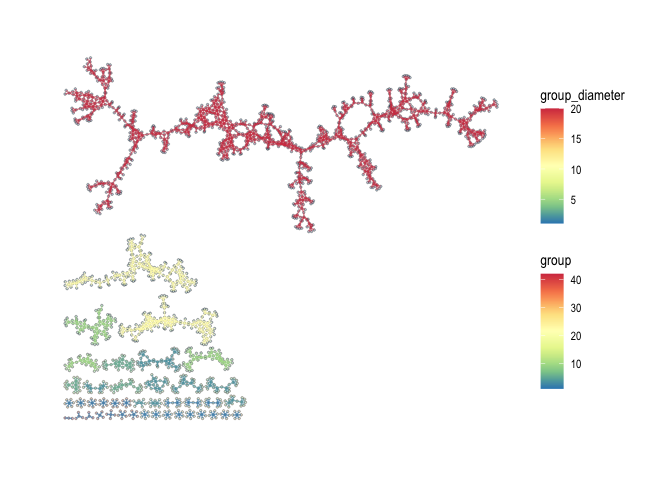
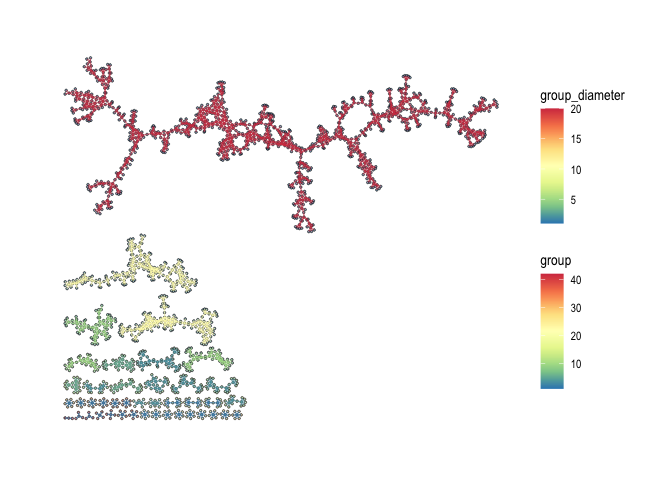
Knit README.Rmd to README.md for push.

Changed region(s): [[0.0938, 0.4688, 0.375, 0.875], [0.0938, 0.125, 0.75, 0.5], [0.125, 0.3438, 0.1875, 0.4375]]

diff --git a/README.md b/README.md
@@ -78,16 +78,16 @@ LRdb_m %>%
 #> # A tibble: 105 × 10
 #>    LR    ligand_gene_symbol receptor_gene_symbol ligand_gene_id receptor_gene_id
 #>    <chr> <chr>              <chr>                         <dbl>            <dbl>
-#>  1 Ada_… Ada                Dpp4                          11486            13482
-#>  2 Adam… Adam10             Il6ra                         11487            16194
-#>  3 Adam… Adam10             Notch1                        11487            18128
-#>  4 Adam… Adam17             Cd40                          11491            21939
-#>  5 Apoa… Apoa1              Abca1                         11806            11303
-#>  6 Apob… Apob               Cd36                         238055            12491
-#>  7 Apob… Apob               Lrp1                         238055            16971
-#>  8 Apob… Apob               Lrp2                         238055            14725
-#>  9 Apoe… Apoe               Sdc1                          11816            20969
-#> 10 App_… App                Dcc                           11820            13176
+#>  1 Adam… Adam10             Tspan14                       11487            52588
+#>  2 Adam… Adam15             Itgav                         11490            16410
+#>  3 Adam… Adam17             Itga6                         11491            16403
+#>  4 Adcy… Adcyap1            Vipr2                         11516            22355
+#>  5 Adip… Adipoq             Adipor1                       11450            72674
+#>  6 Afdn… Afdn               Nrxn3                         17356            18191
+#>  7 Apob… Apob               Apobr                        238055           171504
+#>  8 Apob… Apob               Lsr                          238055            54135
+#>  9 Apoe… Apoe               Ldlr                          11816            16835
+#> 10 Apoe… Apoe               Lrp6                          11816            16974
 #> # ℹ 95 more rows
 #> # ℹ 5 more variables: ligand_ensembl_protein_id <chr>,
 #> #   receptor_ensembl_protein_id <chr>, ligand_ensembl_gene_id <chr>,
@@ -131,7 +131,7 @@ for (cid in cluster_ids) {
 ```
 
 ``` r
-plot_spatial_feature(spe = spe_brain, feature = "mclust_10")
+plot_spatial_feature(spe = spe_brain, feature = "mclust_8")
 ```
 
 <img src="man/figures/README-unnamed-chunk-4-1.png" width="100%" />
@@ -148,7 +148,7 @@ ccc_tbl <- compute_spatial_ccc(spe = spe_brain,
                                assay_name = "logcounts",
                                LRdb = LRdb_m)
 tictoc::toc()
-#> 7.124 sec elapsed
+#> 7.039 sec elapsed
 
 # future::plan(future::sequential)
 ```
@@ -156,26 +156,81 @@ tictoc::toc()
 ``` r
 ccc_tbl %>% 
   dplyr::arrange(desc(LRscore))
-#> # A tibble: 131,750 × 10
-#>    src         dst       d norm.d LR    ligand receptor LRscore  weight WLRscore
-#>    <chr>       <chr> <dbl>  <dbl> <chr> <chr>  <chr>      <dbl>   <dbl>    <dbl>
-#>  1 GGAGCGAGGC… CCTA…  138.   1.01 Ptn_… Ptn    Sdc2       0.848   0.980    0.830
-#>  2 TCCGTTTAGC… AGGG…  138.   1.01 Sst_… Sst    Sstr2      0.848   0.980    0.830
-#>  3 TATAGTTAGG… TACG…  138.   1.01 Ptn_… Ptn    Sdc2       0.847   0.980    0.830
-#>  4 GAGGTACGCG… CCTA…  138.   1.01 Ptn_… Ptn    Sdc2       0.843   0.987    0.832
-#>  5 TCGCGTCCAG… TCGC…    0    0    App_… App    Ncstn      0.842 Inf      Inf    
-#>  6 AGTCTGGACA… AGTC…    0    0    App_… App    Ncstn      0.841 Inf      Inf    
-#>  7 GCGAGAGTTG… GCGA…    0    0    Ptn_… Ptn    Sdc2       0.840 Inf      Inf    
-#>  8 GCGAGAGTTG… ACTT…  138.   1.01 Ptn_… Ptn    Sdc2       0.840   0.980    0.822
-#>  9 AACTTCTGCG… AGTC…  138    1.01 App_… App    Ncstn      0.838   0.986    0.826
-#> 10 CCCTCATTCT… GAGT…  138.   1.01 App_… App    Ncstn      0.836   0.980    0.819
-#> # ℹ 131,740 more rows
+#> # A tibble: 160,620 × 10
+#>    src          dst       d norm.d LR    ligand receptor LRscore weight WLRscore
+#>    <chr>        <chr> <dbl>  <dbl> <chr> <chr>  <chr>      <dbl>  <dbl>    <dbl>
+#>  1 GCGAGAGTTGC… GCGA…    0    0    Apoe… Apoe   Lrp6       0.874  1        0.874
+#>  2 GTTCATCGTTT… GCGA…  138    1.01 Apoe… Apoe   Lrp6       0.869  0.986    0.857
+#>  3 ACTTTACCCTC… GCGA…  138.   1.01 Apoe… Apoe   Lrp6       0.868  0.980    0.851
+#>  4 AGATGATGGAG… GCGA…  138.   1.01 Apoe… Apoe   Lrp6       0.867  0.980    0.849
+#>  5 GATATGGATTA… GATA…    0    0    Clu_… Clu    Lrp8       0.858  1        0.858
+#>  6 AGAAGTGATTC… AATG…  138    1.01 Calm… Calm1  Kcnq3      0.858  0.986    0.846
+#>  7 TTGCATGCTGA… GTGC…  138.   1.01 Calm… Calm1  Kcnq3      0.858  0.980    0.840
+#>  8 CCCAACATACG… GTGC…  138.   1.00 Calm… Calm1  Kcnq3      0.857  0.992    0.850
+#>  9 TAACTCCATGG… GACA…  137    1    Clu_… Clu    Vldlr      0.857  1        0.857
+#> 10 CGGTGCAGATA… GTGC…  138    1.01 Calm… Calm1  Kcnq3      0.857  0.986    0.845
+#> # ℹ 160,610 more rows
 ```
+
+### Add cluster lables to CCC table.
 
 ``` r
 ccc_tbl <-
   ccc_tbl %>%
-  amend_ccc_table_with_cell_annots(spe = spe_brain, annot_cols = c("mclust_8", "mclust_10"))
+  amend_ccc_table_with_cell_annots(spe = spe_brain, annot_cols = c("mclust_8", "mclust_10")) %>%
+  set_ccc_table_default_cluster("mclust_8")
+```
+
+### Summarize cell-cell communication between cell clusters
+
+``` r
+ccc_tbl_between_clusters <-
+  ccc_tbl %>%
+  group_by(mclust_8.src, mclust_8.dst, LR) %>%
+  summarise(n = n(),
+            LRscore.sum = sum(LRscore),
+            WLRscore.sum = sum(WLRscore))
+#> `summarise()` has grouped output by 'mclust_8.src', 'mclust_8.dst'. You can
+#> override using the `.groups` argument.
+
+ccc_tbl_between_clusters %>%
+  dplyr::arrange(desc(n))
+#> # A tibble: 1,662 × 6
+#> # Groups:   mclust_8.src, mclust_8.dst [46]
+#>    mclust_8.src mclust_8.dst LR               n LRscore.sum WLRscore.sum
+#>    <fct>        <fct>        <chr>        <int>       <dbl>        <dbl>
+#>  1 3            3            Calm1_Kcnq3   2845       2183.        2159.
+#>  2 3            3            Fgf1_Fgfr3    2713       1786.        1766.
+#>  3 3            3            Clu_Vldlr     2489       1862.        1842.
+#>  4 3            3            Cx3cl1_Itgav  2470       1681.        1663.
+#>  5 3            3            L1cam_Itgb1   2262       1461.        1445.
+#>  6 3            3            Apoe_Ldlr     1953       1487.        1471.
+#>  7 3            3            Fgf13_Fgfr2   1908       1231.        1218.
+#>  8 3            3            Adam15_Itgav  1876       1164.        1151.
+#>  9 3            3            Afdn_Nrxn3    1820       1181.        1168.
+#> 10 2            2            Calm1_Kcnq3   1788       1424.        1408.
+#> # ℹ 1,652 more rows
+```
+
+``` r
+ccc_tbl_between_clusters %>%
+  dplyr::filter(mclust_8.dst != mclust_8.src) %>%
+  dplyr::arrange(desc(n))
+#> # A tibble: 1,278 × 6
+#> # Groups:   mclust_8.src, mclust_8.dst [38]
+#>    mclust_8.src mclust_8.dst LR               n LRscore.sum WLRscore.sum
+#>    <fct>        <fct>        <chr>        <int>       <dbl>        <dbl>
+#>  1 3            5            Calm1_Kcnq3    259       203.         200. 
+#>  2 5            3            Calm1_Kcnq3    203       161.         159. 
+#>  3 3            5            Cx3cl1_Itgav   202       140.         138. 
+#>  4 3            5            Clu_Vldlr      181       138.         136. 
+#>  5 3            8            Fgf13_Fgfr2    159       113.         111. 
+#>  6 5            3            Afdn_Nrxn3     142        94.8         93.4
+#>  7 3            5            Apoe_Lrp6      141       107.         106. 
+#>  8 1            6            Calm1_Kcnq3    138       111.         110. 
+#>  9 3            8            Clu_Vldlr      132       103.         102. 
+#> 10 8            3            Calm1_Kcnq3    132       101.          99.6
+#> # ℹ 1,268 more rows
 ```
 
 ### Convert CCC table to CCC graph
@@ -191,7 +246,7 @@ ccc_graph_list <-
   to_spatial_ccc_graph_list(ccc_tbl, sp_col_data, workers = 6)
 
 tictoc::toc()
-#> to_spatical_ccc_graph ...: 12.019 sec elapsed
+#> to_spatical_ccc_graph ...: 11.539 sec elapsed
 ```
 
 summarize_ccc_graph_metrics() summarize those graph metrics for each LR
@@ -204,26 +259,26 @@ ccc_graph_metrics_summary_df <-
   summarize_ccc_graph_metrics(ccc_graph_list)
 
 tictoc::toc()
-#> 0.068 sec elapsed
+#> 0.062 sec elapsed
 ```
 
 ``` r
 ccc_graph_metrics_summary_df %>%
   arrange(graph_component_count)
-#> # A tibble: 50 × 12
+#> # A tibble: 48 × 12
 #>    LR        graph_n_nodes graph_n_edges graph_component_count graph_motif_count
 #>    <chr>             <int>         <dbl>                 <dbl>             <int>
-#>  1 Egfl7_It…          2338          8135                     3             15373
-#>  2 App_Ncstn          2675         11287                     3             21977
-#>  3 Ptn_Sdc2           2608          9614                     3             18582
-#>  4 Cx3cl1_I…          2617         11724                     4             21978
-#>  5 S100a1_R…          2591         10689                     5             20094
-#>  6 Efnb3_Ep…          2381          7807                     6             15265
-#>  7 Bsg_Cav1           2237          4470                    23              9423
-#>  8 Wnt10a_F…            92            74                    32                48
-#>  9 Flt3l_Fl…            80            55                    34                14
-#> 10 Cxcl12_G…          1763          3223                    42              5310
-#> # ℹ 40 more rows
+#>  1 Calm1_Kc…          2697         13616                     3             24463
+#>  2 Clu_Vldlr          2665         10624                     3             20955
+#>  3 Cx3cl1_I…          2617         11724                     4             21978
+#>  4 Adam15_I…          2388          9187                     4             17301
+#>  5 Afdn_Nrx…          2463          8262                     6             16000
+#>  6 Clu_Lrp8           2527          7510                     6             15497
+#>  7 L1cam_It…          2306          7682                     6             14856
+#>  8 Fgf1_Fgf…          2275          7569                     7             14148
+#>  9 Adam10_T…          2114          5924                     8             10890
+#> 10 Apoe_Lrp6          2497          6612                     9             13761
+#> # ℹ 38 more rows
 #> # ℹ 7 more variables: graph_diameter <dbl>, graph_un_diameter <dbl>,
 #> #   graph_mean_dist <dbl>, graph_circuit_rank <dbl>, graph_reciprocity <dbl>,
 #> #   graph_clique_num <int>, graph_clique_count <int>
@@ -239,25 +294,25 @@ ccc_graph_group_metrics_summary_df <-
   summarize_ccc_graph_metrics(ccc_graph_list, level = "group")
 
 tictoc::toc()
-#> 0.066 sec elapsed
+#> 0.062 sec elapsed
 ```
 
 ``` r
 ccc_graph_group_metrics_summary_df 
-#> # A tibble: 3,855 × 12
-#>    LR       group group_n_nodes group_n_edges group_adhesion group_motif_count
-#>    <chr>    <int>         <int>         <dbl>          <dbl>             <int>
-#>  1 Bsg_Cav1     1          1913          3970              0              8432
-#>  2 Bsg_Cav1     6            18            23              0                44
-#>  3 Bsg_Cav1    19             5             5              0                 6
-#>  4 Bsg_Cav1     2            63           134              0               276
-#>  5 Bsg_Cav1    14             7             7              0                15
-#>  6 Bsg_Cav1     5            23            28              0                65
-#>  7 Bsg_Cav1     7            17            22              0                43
-#>  8 Bsg_Cav1    15             7             7              0                15
-#>  9 Bsg_Cav1    12             8            11              0                15
-#> 10 Bsg_Cav1     4            24            42              0                87
-#> # ℹ 3,845 more rows
+#> # A tibble: 3,313 × 12
+#>    LR         group group_n_nodes group_n_edges group_adhesion group_motif_count
+#>    <chr>      <int>         <int>         <dbl>          <dbl>             <int>
+#>  1 Jag1_Notc…    24             3             2              0                 1
+#>  2 Jag1_Notc…    46             2             1              0                 0
+#>  3 Jag1_Notc…    47             2             1              0                 0
+#>  4 Jag1_Notc…    25             3             3              0                 1
+#>  5 Jag1_Notc…     1            13            23              0                19
+#>  6 Jag1_Notc…    48             2             1              0                 0
+#>  7 Jag1_Notc…    49             2             2              0                 0
+#>  8 Jag1_Notc…     7             5             5              0                 3
+#>  9 Jag1_Notc…    26             3             5              0                 1
+#> 10 Jag1_Notc…    90             1             1              0                 0
+#> # ℹ 3,303 more rows
 #> # ℹ 6 more variables: group_diameter <dbl>, group_un_diameter <dbl>,
 #> #   group_mean_dist <dbl>, group_girth <dbl>, group_circuit_rank <dbl>,
 #> #   group_reciprocity <dbl>
@@ -273,26 +328,26 @@ LR_of_interest <- "App_Dcc"
 ccc_graph_list[[LR_of_interest]] %>%
   activate(edges) %>%
   as_tibble()
-#> # A tibble: 3,822 × 38
-#>     from    to src      dst       d norm.d LR    ligand receptor LRscore  weight
-#>    <int> <int> <chr>    <chr> <dbl>  <dbl> <chr> <chr>  <chr>      <dbl>   <dbl>
-#>  1     1   577 AAACAAG… CAGC…  138    1.01 App_… App    Dcc        0.745   0.986
-#>  2     1  1938 AAACAAG… TTCT…  138.   1.01 App_… App    Dcc        0.685   0.980
-#>  3     2  1569 AAACAAT… TAGT…  138    1.01 App_… App    Dcc        0.739   0.986
-#>  4     3  1251 AAACACC… GGAA…  138    1.01 App_… App    Dcc        0.671   0.986
-#>  5     4     4 AAACAGA… AAAC…    0    0    App_… App    Dcc        0.798 Inf    
-#>  6     4   581 AAACAGA… CAGC…  138.   1.01 App_… App    Dcc        0.771   0.980
-#>  7     5     5 AAACCGG… AAAC…    0    0    App_… App    Dcc        0.728 Inf    
-#>  8     5   805 AAACCGG… CGCC…  138.   1.01 App_… App    Dcc        0.726   0.980
-#>  9     6   699 AAACCTC… CCGA…  138.   1.01 App_… App    Dcc        0.701   0.980
-#> 10     6  1324 AAACCTC… GGTA…  138.   1.01 App_… App    Dcc        0.714   0.980
+#> # A tibble: 3,822 × 40
+#>     from    to src       dst       d norm.d LR    ligand receptor LRscore weight
+#>    <int> <int> <chr>     <chr> <dbl>  <dbl> <chr> <chr>  <chr>      <dbl>  <dbl>
+#>  1     1   577 AAACAAGT… CAGC…  138    1.01 App_… App    Dcc        0.745  0.986
+#>  2     1  1938 AAACAAGT… TTCT…  138.   1.01 App_… App    Dcc        0.685  0.980
+#>  3     2  1569 AAACAATC… TAGT…  138    1.01 App_… App    Dcc        0.739  0.986
+#>  4     3  1251 AAACACCA… GGAA…  138    1.01 App_… App    Dcc        0.671  0.986
+#>  5     4     4 AAACAGAG… AAAC…    0    0    App_… App    Dcc        0.798  1    
+#>  6     4   581 AAACAGAG… CAGC…  138.   1.01 App_… App    Dcc        0.771  0.980
+#>  7     5     5 AAACCGGG… AAAC…    0    0    App_… App    Dcc        0.728  1    
+#>  8     5   805 AAACCGGG… CGCC…  138.   1.01 App_… App    Dcc        0.726  0.980
+#>  9     6   699 AAACCTCA… CCGA…  138.   1.01 App_… App    Dcc        0.701  0.980
+#> 10     6  1324 AAACCTCA… GGTA…  138.   1.01 App_… App    Dcc        0.714  0.980
 #> # ℹ 3,812 more rows
-#> # ℹ 27 more variables: WLRscore <dbl>, mclust_8.src <chr>, mclust_10.src <chr>,
-#> #   mclust_8.dst <chr>, mclust_10.dst <chr>, graph_n_nodes <int>,
-#> #   graph_n_edges <dbl>, graph_component_count <dbl>, graph_motif_count <int>,
-#> #   graph_diameter <dbl>, graph_un_diameter <dbl>, graph_mean_dist <dbl>,
-#> #   graph_circuit_rank <dbl>, graph_reciprocity <dbl>, graph_clique_num <int>,
-#> #   graph_clique_count <int>, group <int>, group_n_nodes <int>, …
+#> # ℹ 29 more variables: WLRscore <dbl>, mclust_8.src <chr>, mclust_10.src <chr>,
+#> #   mclust_8.dst <chr>, mclust_10.dst <chr>, cluster.src <chr>,
+#> #   cluster.dst <chr>, graph_n_nodes <int>, graph_n_edges <dbl>,
+#> #   graph_component_count <dbl>, graph_motif_count <int>, graph_diameter <dbl>,
+#> #   graph_un_diameter <dbl>, graph_mean_dist <dbl>, graph_circuit_rank <dbl>,
+#> #   graph_reciprocity <dbl>, graph_clique_num <int>, …
 ```
 
 ### spatial CCC graph plot with tissue image
@@ -302,10 +357,10 @@ gp_spccc <-
   plot_spatial_ccc_graph(
     ccc_graph = ccc_graph_list[[LR_of_interest]],
     tissue_img = imgRaster(spe_brain),
-    node_color = "mclust_7",
+    node_color = "mclust_8",
     node_size = 1,
     node_alpha = 0.5,
-    edge_color = "group_diameter",
+    edge_color = "group",
     # clip = TRUE,
     which_on_top = "edge"
   )
@@ -339,12 +394,11 @@ gp_spccc <-
   plot_spatial_ccc_graph(
     ccc_graph = ccc_graph_temp,
     tissue_img = SpatialExperiment::imgRaster(spe_brain),
-    edges_expanded_to_group = FALSE,
-    node_color = "mclust_8",
-    node_size = 1.5,
-    node_alpha = 0.5,
-    edge_color = "group_n_edges",
-    edge_width = 4,
+    node_color = "inflow.n",
+    node_size = 1.25,
+    node_alpha = 1,
+    edge_color = "group",
+    show_arrow = TRUE,
     # clip = TRUE,
     which_on_top = "node"
   )
@@ -353,12 +407,14 @@ gp_spccc_0 <-
   plot_spatial_ccc_graph(
     ccc_graph = ccc_graph_list[[LR_of_interest]],
     tissue_img = SpatialExperiment::imgRaster(spe_brain),
+    image_alpha = 0,
     cells_of_interest = cells_of_interest,
     edges_expanded_to_group = FALSE,
     node_color = "mclust_8",
-    node_size = 1,
+    node_size = 1.25,
     node_alpha = 0.5,
-    edge_color = "group_n_edges",
+    edge_color = "group",
+    show_arrow = TRUE,
     # clip = TRUE,
     which_on_top = "node"
   )
@@ -374,6 +430,12 @@ wrap_plots(gp_spccc, gp_spccc_1, ncol = 2)
 ```
 
 <img src="man/figures/README-plot-spatial-ccc-graph-tissue-overlapped-cell-cluster-1.png" width="100%" />
+
+``` r
+gp_spccc_0
+```
+
+<img src="man/figures/README-unnamed-chunk-12-1.png" width="100%" />
 
 ### spatial CCC graph plot without tissue image
 
@@ -451,7 +513,7 @@ cell_overlap_dist <-
   dist_cell_overlap_ccc_tbl(ccc_tbl)
 
 tictoc::toc()
-#> 0.38 sec elapsed
+#> 0.422 sec elapsed
 ```
 
 ``` r
@@ -461,7 +523,7 @@ cell_overlap_lf <-
   lf_cell_overlap_ccc_tbl(ccc_tbl)
 
 tictoc::toc()
-#> 0.42 sec elapsed
+#> 0.503 sec elapsed
 ```
 
 ``` r
@@ -484,7 +546,7 @@ high_cell_overlap_dist <-
   cell_overlap_dist[LRs_high_cell_overlap, LRs_high_cell_overlap]
 
 tictoc::toc()
-#> 0.001 sec elapsed
+#> 0 sec elapsed
 ```
 
 ``` r
